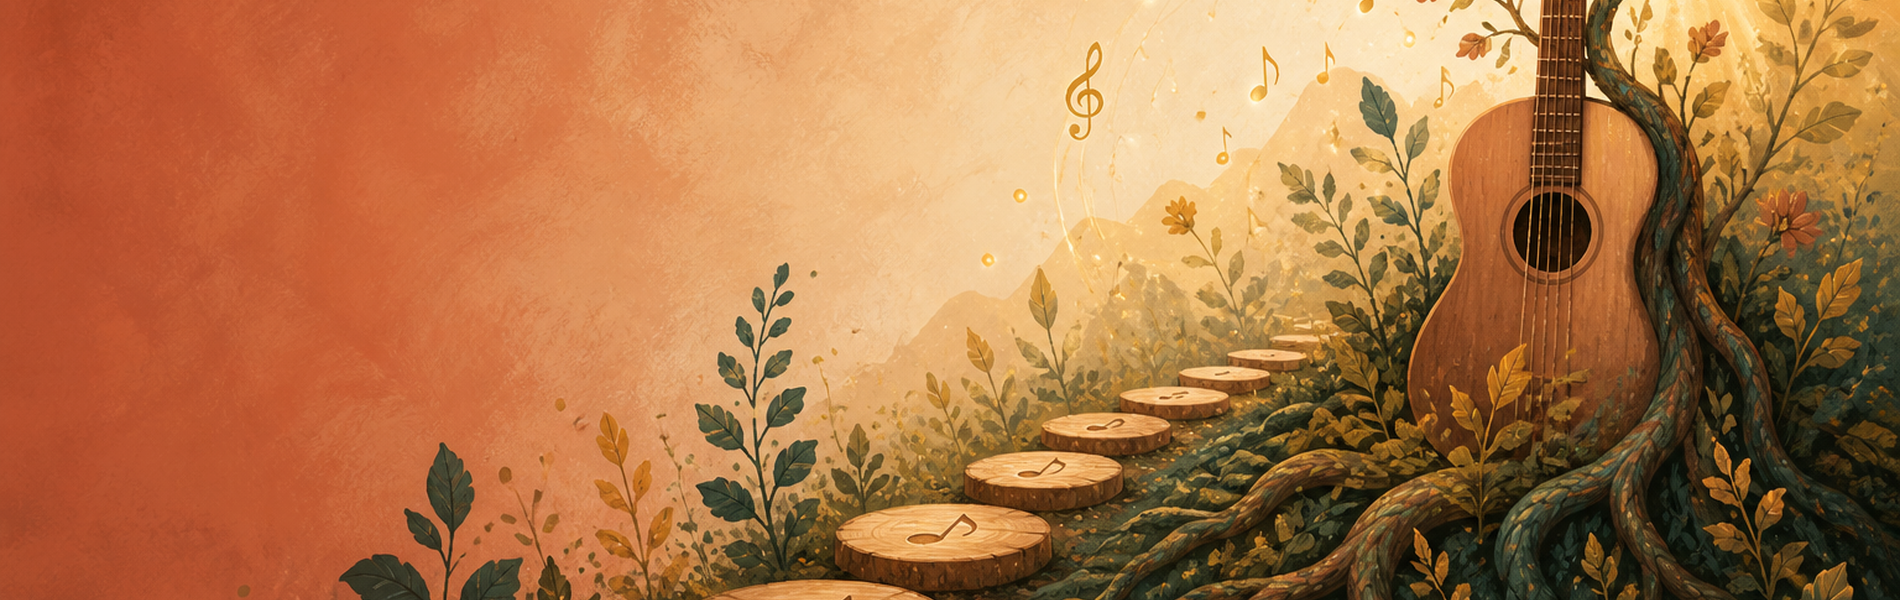
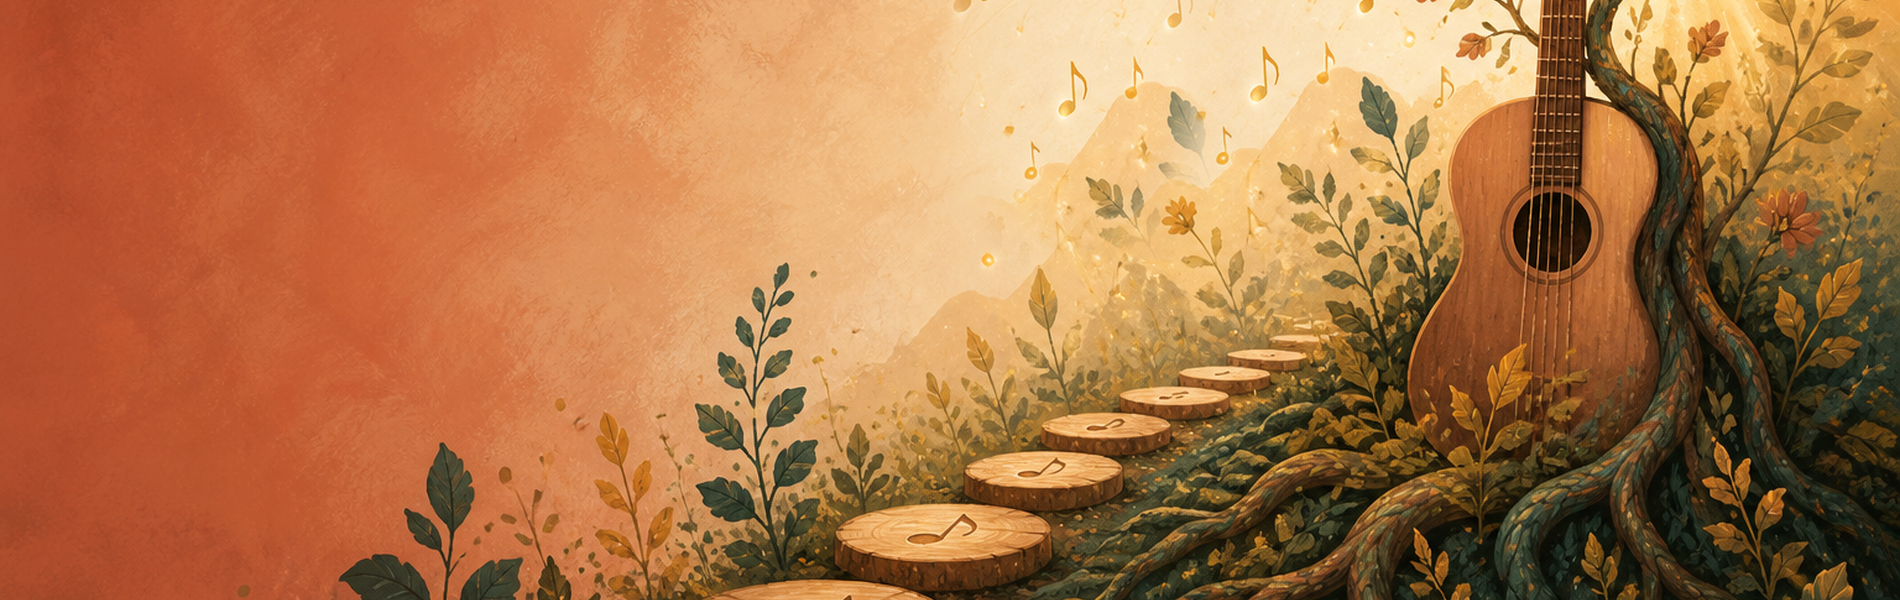
Refactor email handling to use Hostinger API; remove nodemailer and worker-mailer dependencies, update environment variables, and implement rate limiting for registration submissions.

Changed region(s): [[0.4968, 0.0, 0.6521, 0.42]]

diff --git a/src/lib/server/email.ts b/src/lib/server/email.ts
@@ -1,4 +1,3 @@
-import { dev } from '$app/environment';
 import { env } from '$env/dynamic/private';
 
 export type RegistrationEmail = {
@@ -9,17 +8,9 @@ export type RegistrationEmail = {
 	message: string;
 };
 
-function smtpConfig() {
-	const port = Number(env.SMTP_PORT || 465);
-	return {
-		host: env.SMTP_HOST || 'smtp.hostinger.com',
-		port,
-		secure: port === 465,
-		user: env.SMTP_USER || 'contact@rhythmroots.studio',
-		password: env.SMTP_PASSWORD ?? '',
-		to: env.CONTACT_EMAIL || 'contact@rhythmroots.studio'
-	};
-}
+const CONTACT_EMAIL = 'contact@rhythmroots.studio';
+const MAIL_API = 'https://api.mail.hostinger.com/api/v1';
+const DEFAULT_MAILBOX_ID = 'AC65cc315d2015b06ffd1cc2a2e49a';
 
 function escapeHtml(value: string) {
 	return value
@@ -29,7 +20,45 @@ function escapeHtml(value: string) {
 		.replaceAll('"', '&quot;');
 }
 
-function buildBodies(registration: RegistrationEmail) {
+function mailConfig(platformEnv?: App.Platform['env']) {
+	return {
+		token: env.HOSTINGER_API_KEY || platformEnv?.HOSTINGER_API_KEY || '',
+		mailboxId: env.HOSTINGER_MAILBOX_ID || platformEnv?.HOSTINGER_MAILBOX_ID || DEFAULT_MAILBOX_ID,
+		studio: env.CONTACT_EMAIL || platformEnv?.CONTACT_EMAIL || CONTACT_EMAIL
+	};
+}
+
+async function sendMail(
+	config: ReturnType<typeof mailConfig>,
+	payload: {
+		to: string;
+		subject: string;
+		text: string;
+		html: string;
+	}
+) {
+	const response = await fetch(`${MAIL_API}/mailboxes/${config.mailboxId}/send`, {
+		method: 'POST',
+		headers: {
+			Authorization: `Bearer ${config.token}`,
+			'Content-Type': 'application/json'
+		},
+		body: JSON.stringify({
+			to: [payload.to],
+			displayName: 'Rhythm Roots',
+			subject: payload.subject,
+			text: payload.text,
+			html: payload.html
+		})
+	});
+
+	if (!response.ok) {
+		const details = await response.text();
+		throw new Error(`Hostinger Mail API ${response.status}: ${details.slice(0, 300)}`);
+	}
+}
+
+function studioBodies(registration: RegistrationEmail) {
 	const blocks = registration.blocks.length ? registration.blocks.join(', ') : 'Not specified';
 	const message = registration.message || '(none)';
 
@@ -74,59 +103,72 @@ function buildBodies(registration: RegistrationEmail) {
 	return { text, html };
 }
 
-export async function sendRegistrationEmail(registration: RegistrationEmail) {
-	const config = smtpConfig();
+function confirmationBodies(registration: RegistrationEmail) {
+	const firstName = registration.name.split(/\s+/)[0] || 'there';
+	const blocks = registration.blocks.length
+		? registration.blocks.join(' and ')
+		: 'the upcoming class blocks';
 
-	if (!config.password) {
-		throw new Error('SMTP_PASSWORD is not configured');
+	const text = [
+		`Hi ${firstName},`,
+		'',
+		'Thank you for your interest in Rhythm Roots. We received your registration details and will be in touch with you soon.',
+		'',
+		`Student: ${registration.student}`,
+		`Blocks: ${blocks}`,
+		'',
+		'If you have questions in the meantime, reply to this email.',
+		'',
+		'Rhythm Roots',
+		'rhythmroots.studio'
+	].join('\n');
+
+	const html = `
+		<div style="font-family: Outfit, ui-sans-serif, system-ui, sans-serif; color: #122424; line-height: 1.6;">
+			<p style="margin: 0 0 16px;">Hi ${escapeHtml(firstName)},</p>
+			<p style="margin: 0 0 16px;">
+				Thank you for your interest in Rhythm Roots. We received your registration details and will be in touch with you soon.
+			</p>
+			<p style="margin: 0 0 16px;">
+				<strong>Student:</strong> ${escapeHtml(registration.student)}<br />
+				<strong>Blocks:</strong> ${escapeHtml(blocks)}
+			</p>
+			<p style="margin: 0 0 16px;">If you have questions in the meantime, reply to this email.</p>
+			<p style="margin: 0;">
+				Rhythm Roots<br />
+				<span style="color: #5b7869;">rhythmroots.studio</span>
+			</p>
+		</div>
+	`.trim();
+
+	return { text, html };
+}
+
+export async function sendRegistrationEmail(
+	registration: RegistrationEmail,
+	platformEnv?: App.Platform['env']
+) {
+	const config = mailConfig(platformEnv);
+
+	if (!config.token) {
+		throw new Error('HOSTINGER_API_KEY is not configured');
 	}
 
-	const { text, html } = buildBodies(registration);
-	const subject = `Registration interest: ${registration.student}`;
+	const studio = studioBodies(registration);
+	await sendMail(config, {
+		to: config.studio,
+		subject: `Registration interest: ${registration.student}`,
+		...studio
+	});
 
-	if (dev) {
-		const { default: nodemailer } = await import('nodemailer');
-		const transporter = nodemailer.createTransport({
-			host: config.host,
-			port: config.port,
-			secure: config.secure,
-			auth: {
-				user: config.user,
-				pass: config.password
-			}
+	try {
+		const confirmation = confirmationBodies(registration);
+		await sendMail(config, {
+			to: registration.email,
+			subject: 'We received your Rhythm Roots registration interest',
+			...confirmation
 		});
-
-		await transporter.sendMail({
-			from: { name: 'Rhythm Roots', address: config.user },
-			to: config.to,
-			replyTo: { name: registration.name, address: registration.email },
-			subject,
-			text,
-			html
-		});
-		return;
+	} catch (error) {
+		console.error('Confirmation email failed', error);
 	}
-
-	const { WorkerMailer } = await import('worker-mailer');
-	await WorkerMailer.send(
-		{
-			host: config.host,
-			port: config.port,
-			secure: config.secure,
-			startTls: !config.secure,
-			authType: ['login', 'plain'],
-			credentials: {
-				username: config.user,
-				password: config.password
-			}
-		},
-		{
-			from: { name: 'Rhythm Roots', email: config.user },
-			to: config.to,
-			reply: { name: registration.name, email: registration.email },
-			subject,
-			text,
-			html
-		}
-	);
 }

diff --git a/src/routes/+page.server.ts b/src/routes/+page.server.ts
@@ -1,8 +1,10 @@
 import { fail } from '@sveltejs/kit';
 import { sendRegistrationEmail } from '$lib/server/email';
+import { isRateLimited } from '$lib/server/rate-limit';
 import type { Actions } from './$types';
 
 const EMAIL_PATTERN = /^[^\s@]+@[^\s@]+\.[^\s@]+$/;
+const MIN_FILL_MS = 800;
 
 function asText(value: FormDataEntryValue | null, maxLength: number) {
 	return String(value ?? '')
@@ -11,15 +13,20 @@ function asText(value: FormDataEntryValue | null, maxLength: number) {
 }
 
 export const actions = {
-	default: async ({ request }) => {
+	default: async ({ request, platform, getClientAddress }) => {
 		const data = await request.formData();
 
 		if (asText(data.get('company'), 200)) {
 			return { success: true };
 		}
 
+		const started = Number(data.get('started'));
+		if (!Number.isFinite(started) || Date.now() - started < MIN_FILL_MS) {
+			return { success: true };
+		}
+
 		const name = asText(data.get('name'), 200);
-		const email = asText(data.get('email'), 320);
+		const email = asText(data.get('email'), 320).toLowerCase();
 		const student = asText(data.get('student'), 200);
 		const message = asText(data.get('message'), 2000);
 		const blocks = data
@@ -35,8 +42,22 @@ export const actions = {
 			return fail(400, { error: 'Please enter a valid email address.' });
 		}
 
+		const cache = platform?.caches?.default as
+			| import('$lib/server/rate-limit').RateCache
+			| undefined;
+		const ip = getClientAddress();
+		const limited =
+			(await isRateLimited(cache, `ip:${ip}`, 3, 15 * 60)) ||
+			(await isRateLimited(cache, `email:${email}`, 3, 60 * 60));
+
+		if (limited) {
+			return fail(429, {
+				error: 'Please wait a few minutes before submitting again.'
+			});
+		}
+
 		try {
-			await sendRegistrationEmail({ name, email, student, blocks, message });
+			await sendRegistrationEmail({ name, email, student, blocks, message }, platform?.env);
 		} catch (error) {
 			console.error('Registration email failed', error);
 			return fail(500, {

diff --git a/src/lib/server/rate-limit.ts b/src/lib/server/rate-limit.ts
@@ -1,0 +1,45 @@
+export type RateCache = {
+	match(request: Request): Promise<Response | undefined>;
+	put(request: Request, response: Response): Promise<void>;
+};
+
+const memory = new Map<string, { count: number; resetAt: number }>();
+
+export async function isRateLimited(
+	cache: RateCache | undefined,
+	key: string,
+	max: number,
+	windowSeconds: number
+) {
+	if (!cache) {
+		const now = Date.now();
+		const current = memory.get(key);
+
+		if (!current || current.resetAt <= now) {
+			memory.set(key, { count: 1, resetAt: now + windowSeconds * 1000 });
+			return false;
+		}
+
+		current.count += 1;
+		return current.count > max;
+	}
+
+	const request = new Request(`https://rr-website.rate-limit/${encodeURIComponent(key)}`);
+	const cached = await cache.match(request);
+	const count = (cached ? Number(await cached.text()) || 0 : 0) + 1;
+
+	if (count > max) {
+		return true;
+	}
+
+	await cache.put(
+		request,
+		new Response(String(count), {
+			headers: {
+				'Cache-Control': `max-age=${windowSeconds}`
+			}
+		})
+	);
+
+	return false;
+}

diff --git a/src/routes/+page.svelte b/src/routes/+page.svelte
@@ -8,6 +8,7 @@
 	let { form }: PageProps = $props();
 	let pending = $state(false);
 	let thanksDialog: HTMLDialogElement | undefined = $state();
+	let formStarted = $state(Date.now());
 
 	function openThanks() {
 		if (!thanksDialog || thanksDialog.open) return;
@@ -251,14 +252,11 @@
 							};
 						}}
 					>
-						<input
-							type="text"
-							name="company"
-							tabindex="-1"
-							autocomplete="off"
-							class="hidden"
-							aria-hidden="true"
-						/>
+						<label class="absolute -left-[10000px] h-px w-px overflow-hidden" aria-hidden="true">
+							Company
+							<input type="text" name="company" tabindex="-1" autocomplete="off" />
+						</label>
+						<input type="hidden" name="started" value={String(formStarted)} />
 						<label class="block">
 							<span class="mb-1.5 block text-sm font-medium text-paper/80"
 								>Parent / guardian name</span

diff --git a/src/app.d.ts b/src/app.d.ts
@@ -8,10 +8,8 @@ declare global {
 		// interface PageState {}
 		interface Platform {
 			env: {
-				SMTP_HOST?: string;
-				SMTP_PORT?: string;
-				SMTP_USER?: string;
-				SMTP_PASSWORD?: string;
+				HOSTINGER_API_KEY?: string;
+				HOSTINGER_MAILBOX_ID?: string;
 				CONTACT_EMAIL?: string;
 			};
 		}

diff --git a/vite.config.ts b/vite.config.ts
@@ -17,9 +17,6 @@ export default defineConfig({
 			adapter: adapter()
 		})
 	],
-	ssr: {
-		external: ['cloudflare:sockets']
-	},
 	test: {
 		expect: { requireAssertions: true },
 		projects: [
